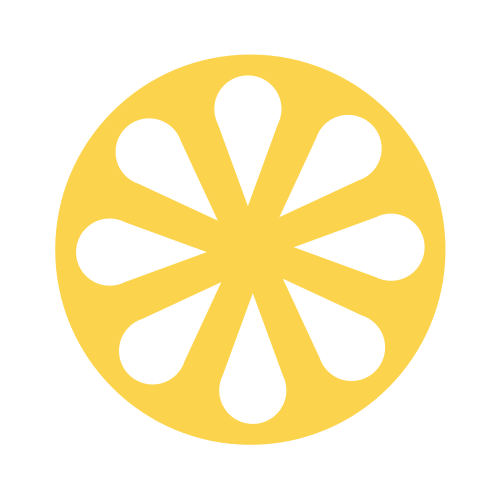
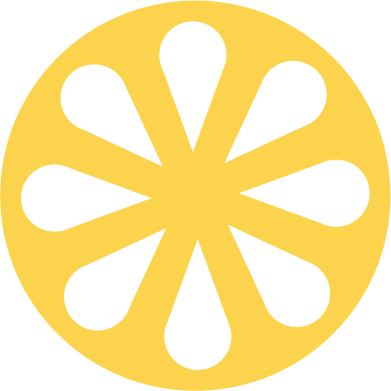
better images

diff --git a/src/screens/ShoppingList.tsx b/src/screens/ShoppingList.tsx
@@ -400,14 +400,14 @@ const ShoppingList: Screen<ShoppingListProps & ScreenProps> = (props) => {
                             <BaseText size={55}>N</BaseText>
                             <Image
                                 style={[
-                                    sizeImage(10, 10, { width: 55 }),
+                                    sizeImage(10, 10, { width: 45 }),
                                     {
-                                        marginTop: bsl(8),
-                                        marginLeft: bsl(-6),
-                                        marginRight: bsl(-3),
+                                        marginTop: bsl(14),
+                                        // marginLeft: bsl(-6),
+                                        marginRight: bsl(2),
                                     },
                                 ]}
-                                source={require('@images/lemon-slice.png')}
+                                source={require('@images/lemon-slice-small.png')}
                             />
                             <BaseText size={55}>thing to see here.</BaseText>
                         </View>
